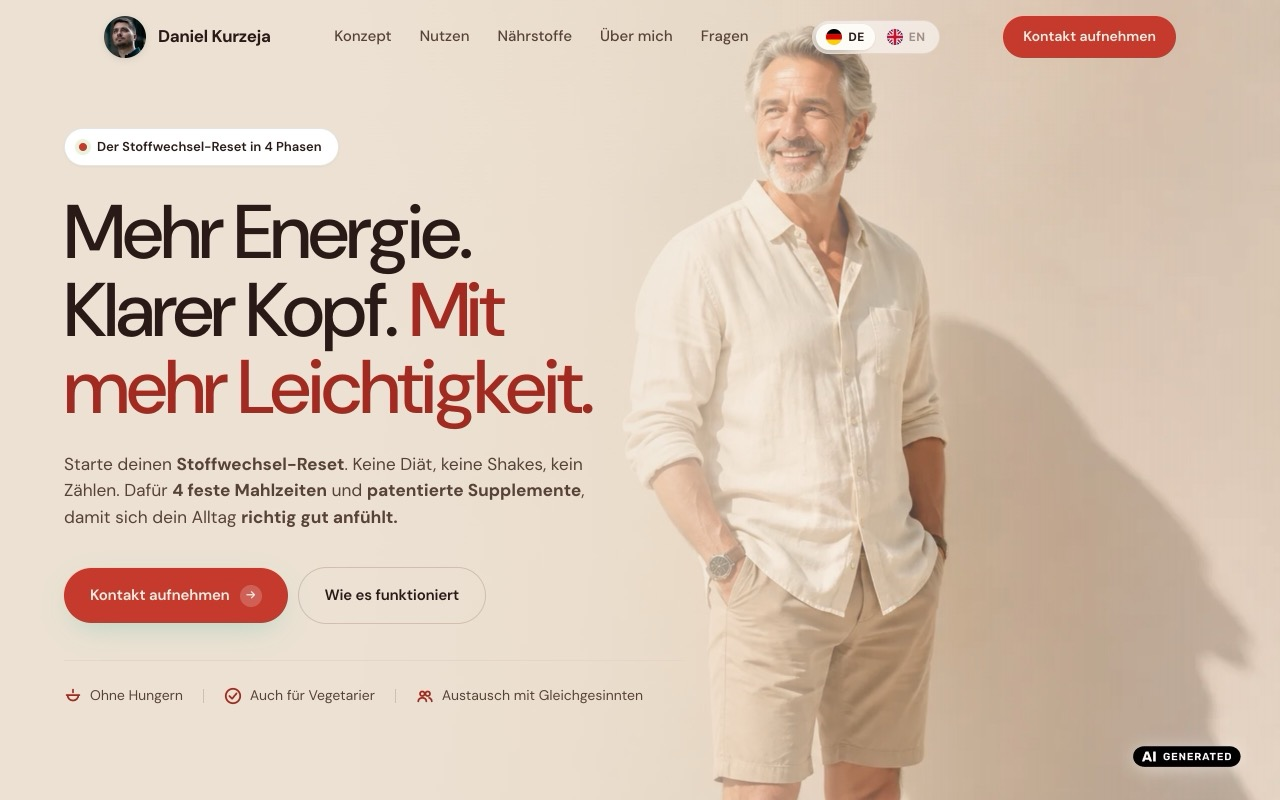
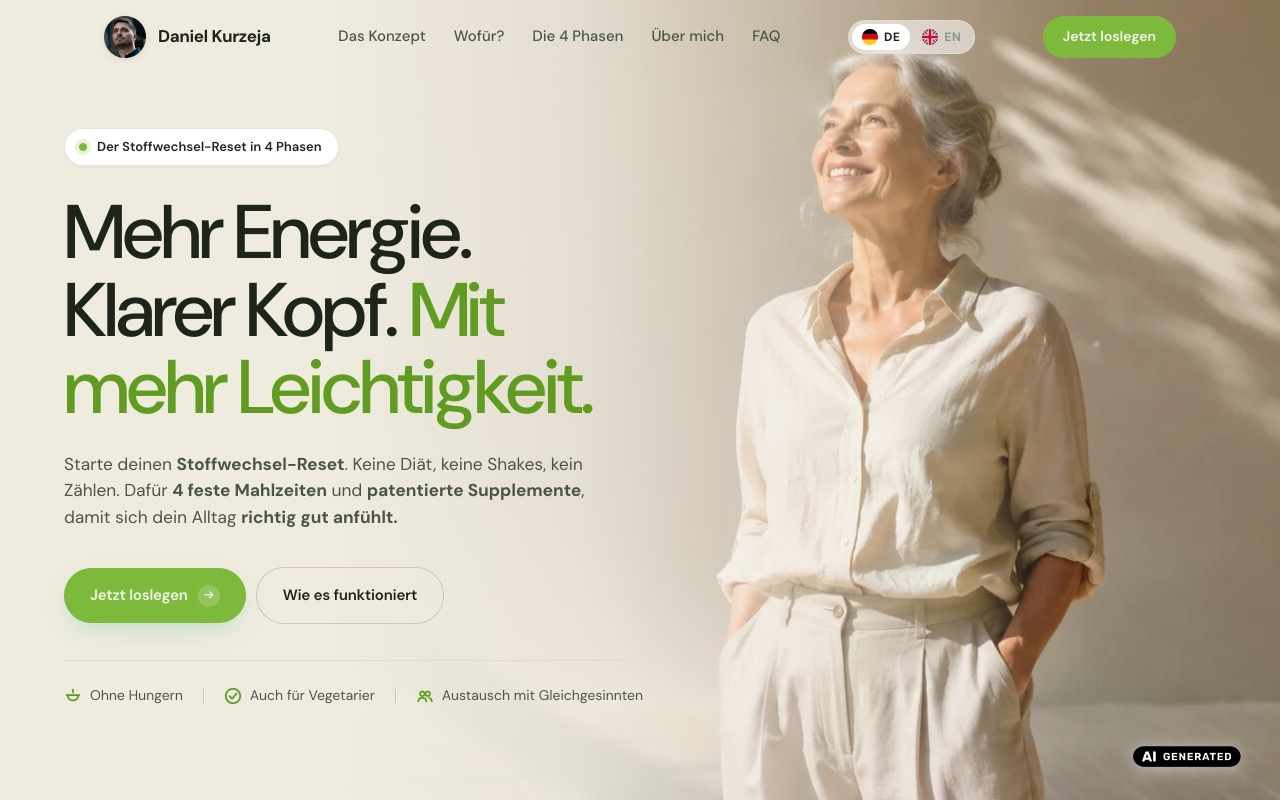
fix(pm-cellrestart): keep short nav labels, refresh preview thumbnail
Reverts nav labels back to the short versions the user originally asked for
(Das Konzept, Wofür?, Die 4 Phasen, Über mich, FAQ). The descriptive
section eyebrows ("Was ist das eigentlich", "Was du davon hast", "Und
wie kommst du dahin?", "Fragen & Antworten") were already in place, so
the mapping now matches: click short nav label → land on descriptive
section header.

Also refreshes the preview thumbnail (public/previews/pm-cellrestart.jpg)
to reflect the new nav + "Jetzt loslegen" CTA. Same path so the home
grid + /vorlagen page + in-app template chooser all pick up the new
image automatically.

diff --git a/templates/pm-cellrestart/index.html b/templates/pm-cellrestart/index.html
@@ -4471,11 +4471,11 @@ img {
       <span class="brand-text">{{#unless partner_modus=duo}}{{vorname}} {{nachname}}{{/unless}}{{#if partner_modus=duo}}{{vorname}} &amp; {{vorname2}}{{/if}}</span>
     </a>
     <div class="nav-links">
-      <a href="#konzept"><span class="l-de">Was ist das eigentlich?</span><span class="l-en">What's this all about?</span></a>
-      <a href="#nutzen"><span class="l-de">Was du davon hast</span><span class="l-en">What's in it for you</span></a>
-      <a href="#phasen"><span class="l-de">Und wie kommst du dahin?</span><span class="l-en">And how do you get there?</span></a>
+      <a href="#konzept"><span class="l-de">Das Konzept</span><span class="l-en">The concept</span></a>
+      <a href="#nutzen"><span class="l-de">Wofür?</span><span class="l-en">What for?</span></a>
+      <a href="#phasen"><span class="l-de">Die 4 Phasen</span><span class="l-en">The 4 phases</span></a>
       <a href="#ueber"><span class="l-de">{{#unless partner_modus=duo}}Über mich{{/unless}}{{#if partner_modus=duo}}Über uns{{/if}}</span><span class="l-en">{{#unless partner_modus=duo}}About me{{/unless}}{{#if partner_modus=duo}}About us{{/if}}</span></a>
-      <a href="#faq"><span class="l-de">Fragen &amp; Antworten</span><span class="l-en">Questions &amp; Answers</span></a>
+      <a href="#faq"><span class="l-de">FAQ</span><span class="l-en">FAQ</span></a>
     </div>
     <div class="lang-switch" role="group" aria-label="Sprache / Language">
       <button type="button" class="lang-opt" data-lang="de" onclick="fsSetLang('de')" aria-label="Deutsch">
@@ -4511,11 +4511,11 @@ img {
       </button>
     </div>
     <nav class="nav-mobile-links">
-      <a href="#konzept"><span class="l-de">Was ist das eigentlich?</span><span class="l-en">What's this all about?</span></a>
-      <a href="#nutzen"><span class="l-de">Was du davon hast</span><span class="l-en">What's in it for you</span></a>
-      <a href="#phasen"><span class="l-de">Und wie kommst du dahin?</span><span class="l-en">And how do you get there?</span></a>
+      <a href="#konzept"><span class="l-de">Das Konzept</span><span class="l-en">The concept</span></a>
+      <a href="#nutzen"><span class="l-de">Wofür?</span><span class="l-en">What for?</span></a>
+      <a href="#phasen"><span class="l-de">Die 4 Phasen</span><span class="l-en">The 4 phases</span></a>
       <a href="#ueber"><span class="l-de">{{#unless partner_modus=duo}}Über mich{{/unless}}{{#if partner_modus=duo}}Über uns{{/if}}</span><span class="l-en">{{#unless partner_modus=duo}}About me{{/unless}}{{#if partner_modus=duo}}About us{{/if}}</span></a>
-      <a href="#faq"><span class="l-de">Fragen &amp; Antworten</span><span class="l-en">Questions &amp; Answers</span></a>
+      <a href="#faq"><span class="l-de">FAQ</span><span class="l-en">FAQ</span></a>
     </nav>
     <a href="#kontakt" class="btn btn-primary nav-mobile-cta"><span class="l-de">Jetzt loslegen</span><span class="l-en">Let's get started</span> <span class="arr">→</span></a>
   </div>
